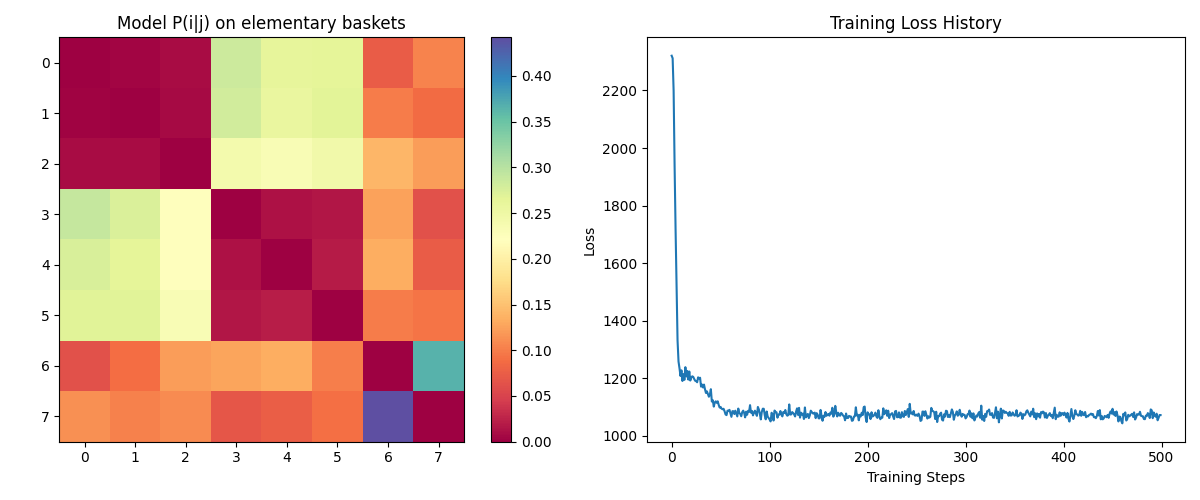
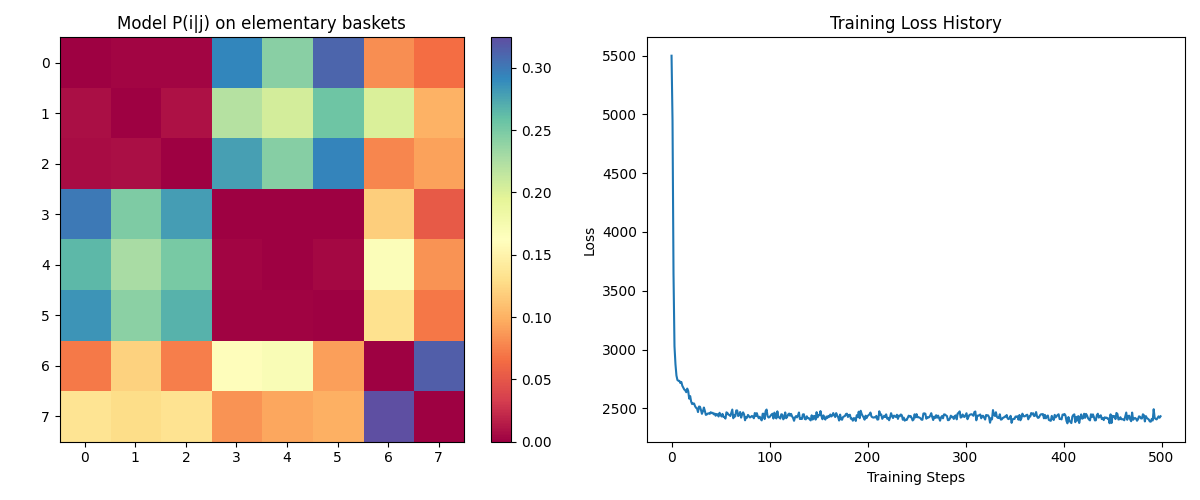
tripdataset implementation working - changes necessary for code clarity and optimality perhaps

diff --git a/python/DataGen.py b/python/DataGen.py
@@ -7,8 +7,9 @@ import os
 sys.path.append(os.path.abspath(os.path.join(os.path.dirname(__file__), '../../choice-learn')))
 from choice_learn.basket_models.dataset import Trip, TripDataset
 from typing import Union
-np.random.seed(42)
-random.seed(42)
+import matplotlib.pyplot as plt
+#np.random.seed(42)
+#random.seed(42)
 
 
 class SyntheticDataGenerator:
@@ -66,13 +67,12 @@ class SyntheticDataGenerator:
         """
 
 
-                    
-
-        return list(  
+        return list( 
             key
             for key, value in self.items_nest.items()
             if value[0].intersection(assortment)
         )
+            
 
     def generate_basket(self, assortment : Union[int, np.ndarray] = None) -> list:
         """ Generates a basket of items based on the defined item sets and their relations.
@@ -82,17 +82,16 @@ class SyntheticDataGenerator:
             list
                 List of items in the generated basket.
         """
-
         if assortment is None :
             assortment = np.array([i for i in range(self.assortment_matrix.shape[1]) if self.assortment_matrix[0, i] == 1])
         if isinstance(assortment, int) and self.assortment_matrix.shape[0]> assortment:
             assortment = np.array([i for i in range(self.assortment_matrix.shape[1]) if self.assortment_matrix[assortment, i] == 1])
         elif isinstance(assortment, np.ndarray):
+            assert assortment.shape == (8,), "Assortment should be a single row array."
             assortment = np.array(assortment)
-
-        available_sets = self.get_available_sets(assortment)
         
-        print(assortment)
+        assortment = set(assortment)
+        available_sets = self.get_available_sets(assortment)        
 
         def select_first_item() -> tuple:
             """ Selects the first item and its nest randomly from the available sets.
@@ -155,15 +154,15 @@ class SyntheticDataGenerator:
             """
 
             if random.random() < self.noise_proba:
+ 
                 basket.add(random.choice(list(assortment.difference(basket))))
-
             return basket
 
         first_chosen_item, first_chosen_nest = select_first_item()
         basket = complete_basket(first_chosen_item, first_chosen_nest)
         basket = add_noise(basket)
         
-        return list(basket)
+        return np.array(list(basket))
 
     def generate_trip(self, assortment : Union[int, np.ndarray] = None) -> Trip:
         """ Generates a trip object from the generated basket.
@@ -174,47 +173,14 @@ class SyntheticDataGenerator:
                 A Trip object containing the generated basket.
         """
 
-        basket = self.generate_basket(assortment)
+        basket = self.generate_basket()
         return Trip(
             purchases = basket,
             prices = np.array([1.0] * len(basket)),  # Assuming uniform price of 1.0 for simplicity
             assortment = np.array(list(self.assortment_matrix[0])),
         )
 
-    def generate_synthetic_dataset(self, n_baskets=None, assortment=None) -> list:
-        """ Generates a dataset of baskets.
-        
-        Parameters  
-        ----------
-            n_baskets : int, optional
-                Number of baskets to generate. If None, uses the default value.
-            assortment : set, optional
-                Custom assortment of items to use for basket generation. If None, uses the default assortment.
-                
-        Returns
-        -------
-            list or np.ndarray
-                List of baskets or a padded numpy array of baskets if padded is True.
-        """
-
-        if assortment is not None:
-            self.assortment = assortment
-
-        self.get_available_sets()
-
-        if n_baskets is None:
-            n_baskets = self.n_baskets_default
-
-        baskets = []
-        for _ in range(n_baskets):
-            basket = self.generate_basket()
-            if len(basket) == 2:
-                baskets.append(basket)
-            #baskets.append(self.generate_basket())
-
-
-        return baskets
-    
+   
     def generate_trip_dataset(self, n_baskets = None, assortments_matrix : np.ndarray = None) -> TripDataset:
         """ Generates a TripDataset from the generated baskets.
         
@@ -232,7 +198,7 @@ class SyntheticDataGenerator:
         """
 
         if assortments_matrix is None:
-            assortments = np.array(np.zeros((1, self.assortment_matrix.shape[1])), dtype=int)
+            assortments = self.assortment_matrix
         else:
             assortments = assortments_matrix
         
@@ -248,6 +214,22 @@ class SyntheticDataGenerator:
 
         return TripDataset(trips, assortments)
 
+"""
 sdg = SyntheticDataGenerator()
-trip_dataset = sdg.generate_trip_dataset(n_baskets=1000)
-#print(f"Generated {len(trip_dataset)} trips with assortments.")
+trip_dataset = sdg.generate_trip_dataset(n_baskets=10000)
+distribution = np.zeros((8,8))
+for trip in trip_dataset.trips:
+    for i in trip.purchases:
+        for j in trip.purchases:
+            if i != j:
+                distribution[i, j] += 1
+
+distribution = distribution / np.sum(distribution, axis=1, keepdims=True)
+plt.imshow(distribution, cmap='hot', interpolation='nearest')
+plt.colorbar()
+plt.title("Item Co-occurrence Distribution")
+plt.xlabel("Item Index")
+plt.ylabel("Item Index")
+plt.savefig("item_cooccurrence_distribution.png")
+plt.show()
+"""

diff --git a/python/AttnModel.py b/python/AttnModel.py
@@ -5,6 +5,11 @@ import os
 import json
 import tqdm
 
+import sys
+import os
+sys.path.append(os.path.abspath(os.path.join(os.path.dirname(__file__), '../../choice-learn')))
+from choice_learn.basket_models.dataset import Trip, TripDataset
+
 import random
 import numpy as np
 import tensorflow as tf
@@ -406,14 +411,15 @@ class AttnModel:
         if not self.instantiated:
             raise ValueError("Model must be instantiated before training. Call instantiate() first.")
         
-        if not isinstance(dataset, (list, np.ndarray)):
+        if not isinstance(dataset, TripDataset):
             raise TypeError("Dataset must be a list or numpy array.")
         
         if not dataset:
             raise ValueError("Dataset cannot be empty.")   
          
         self.loss_type = loss_type
-        dataset = tf.ragged.constant(dataset, dtype=tf.int32)
+        dataset_lists = [list(trip.purchases) for trip in dataset.trips]
+        dataset = tf.ragged.constant(dataset_lists, dtype=tf.int32)
         self.last_dataset_shape = dataset.shape[0]
 
         iterable = tqdm.trange(self.epochs, desc="Training Epochs")

diff --git a/python/main.py b/python/main.py
@@ -15,13 +15,13 @@ K_noise = 7
 # Generate synthetic dataset
 
 data_gen = SyntheticDataGenerator()
-baskets = data_gen.generate_synthetic_dataset(n_baskets)
+baskets = data_gen.generate_trip_dataset(n_baskets)
 
 # Instantiate and train the model
 
 model = AttnModel()
 model.instantiate(
-    n_items=len(data_gen.assortment),
+    n_items=data_gen.assortment_matrix.shape[1],
     embedding_dim=embedding_dim,
     K_noise=K_noise
 )
